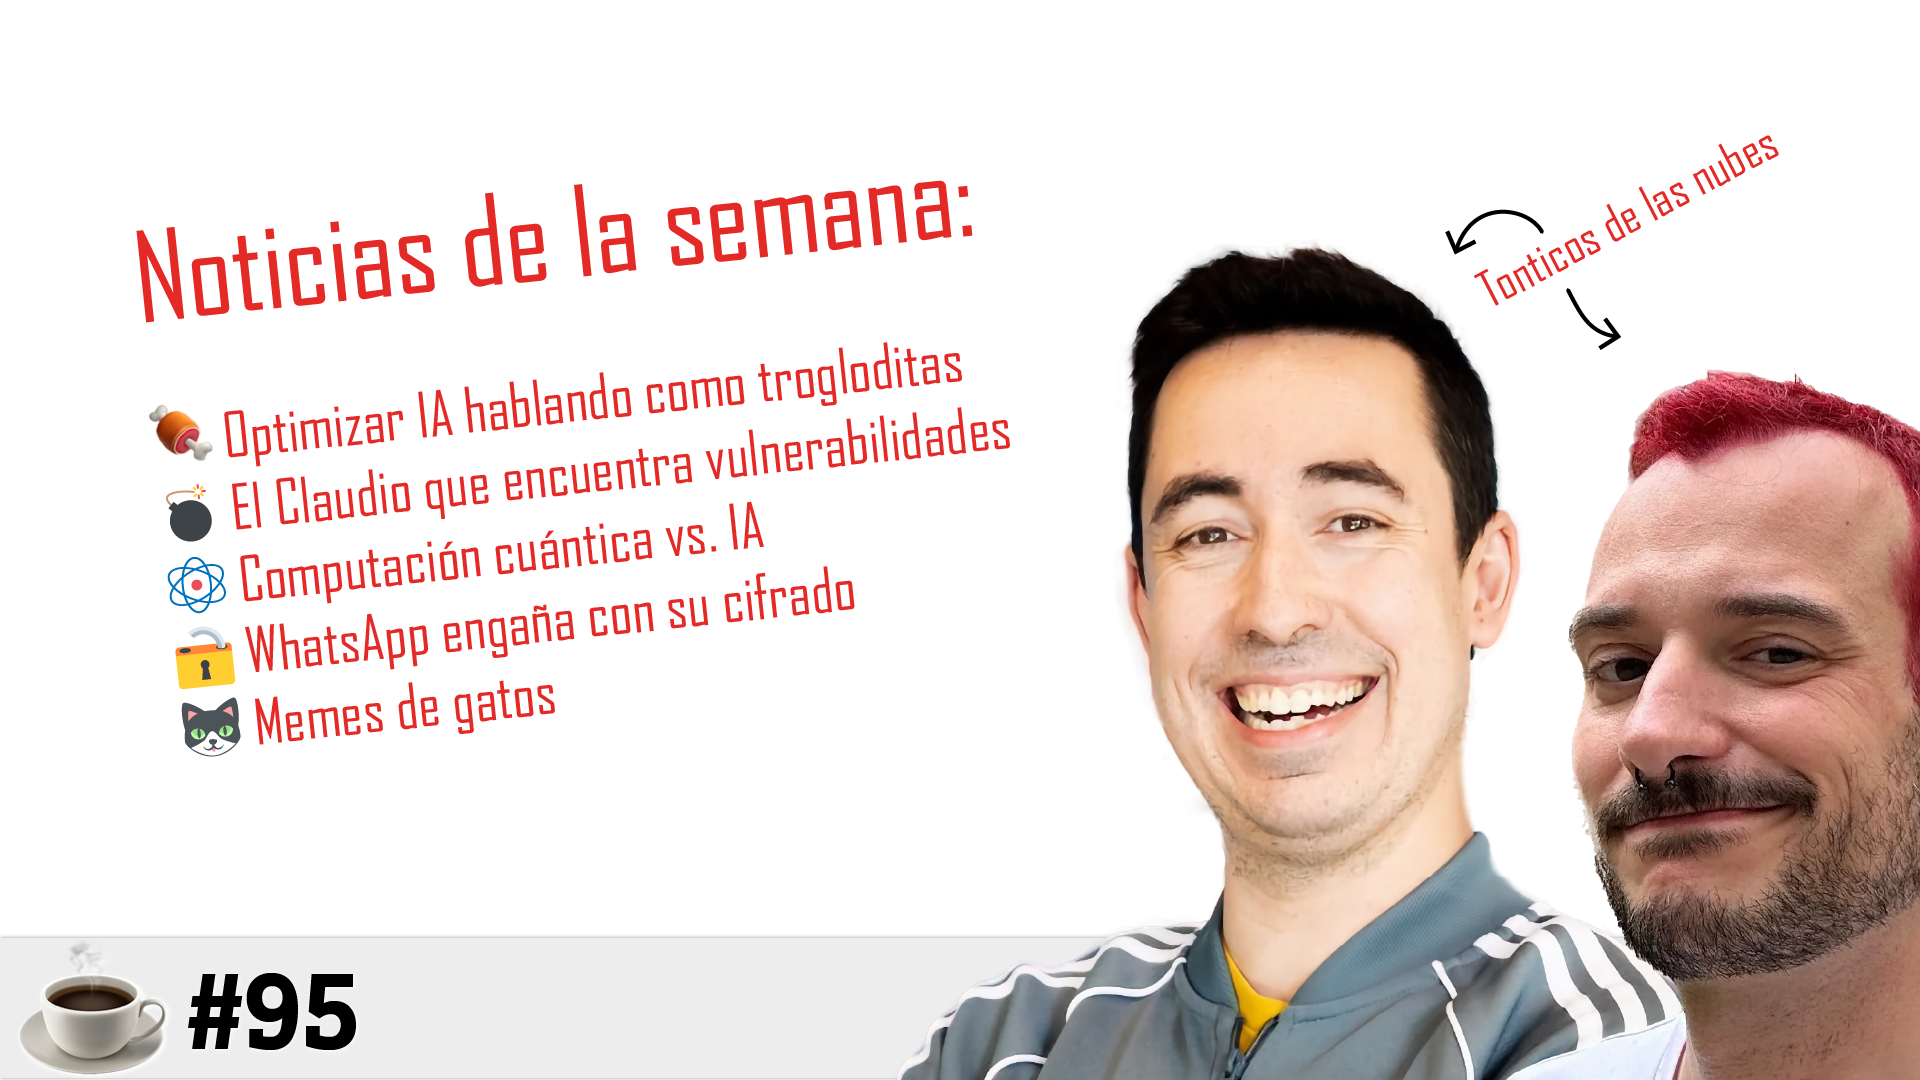
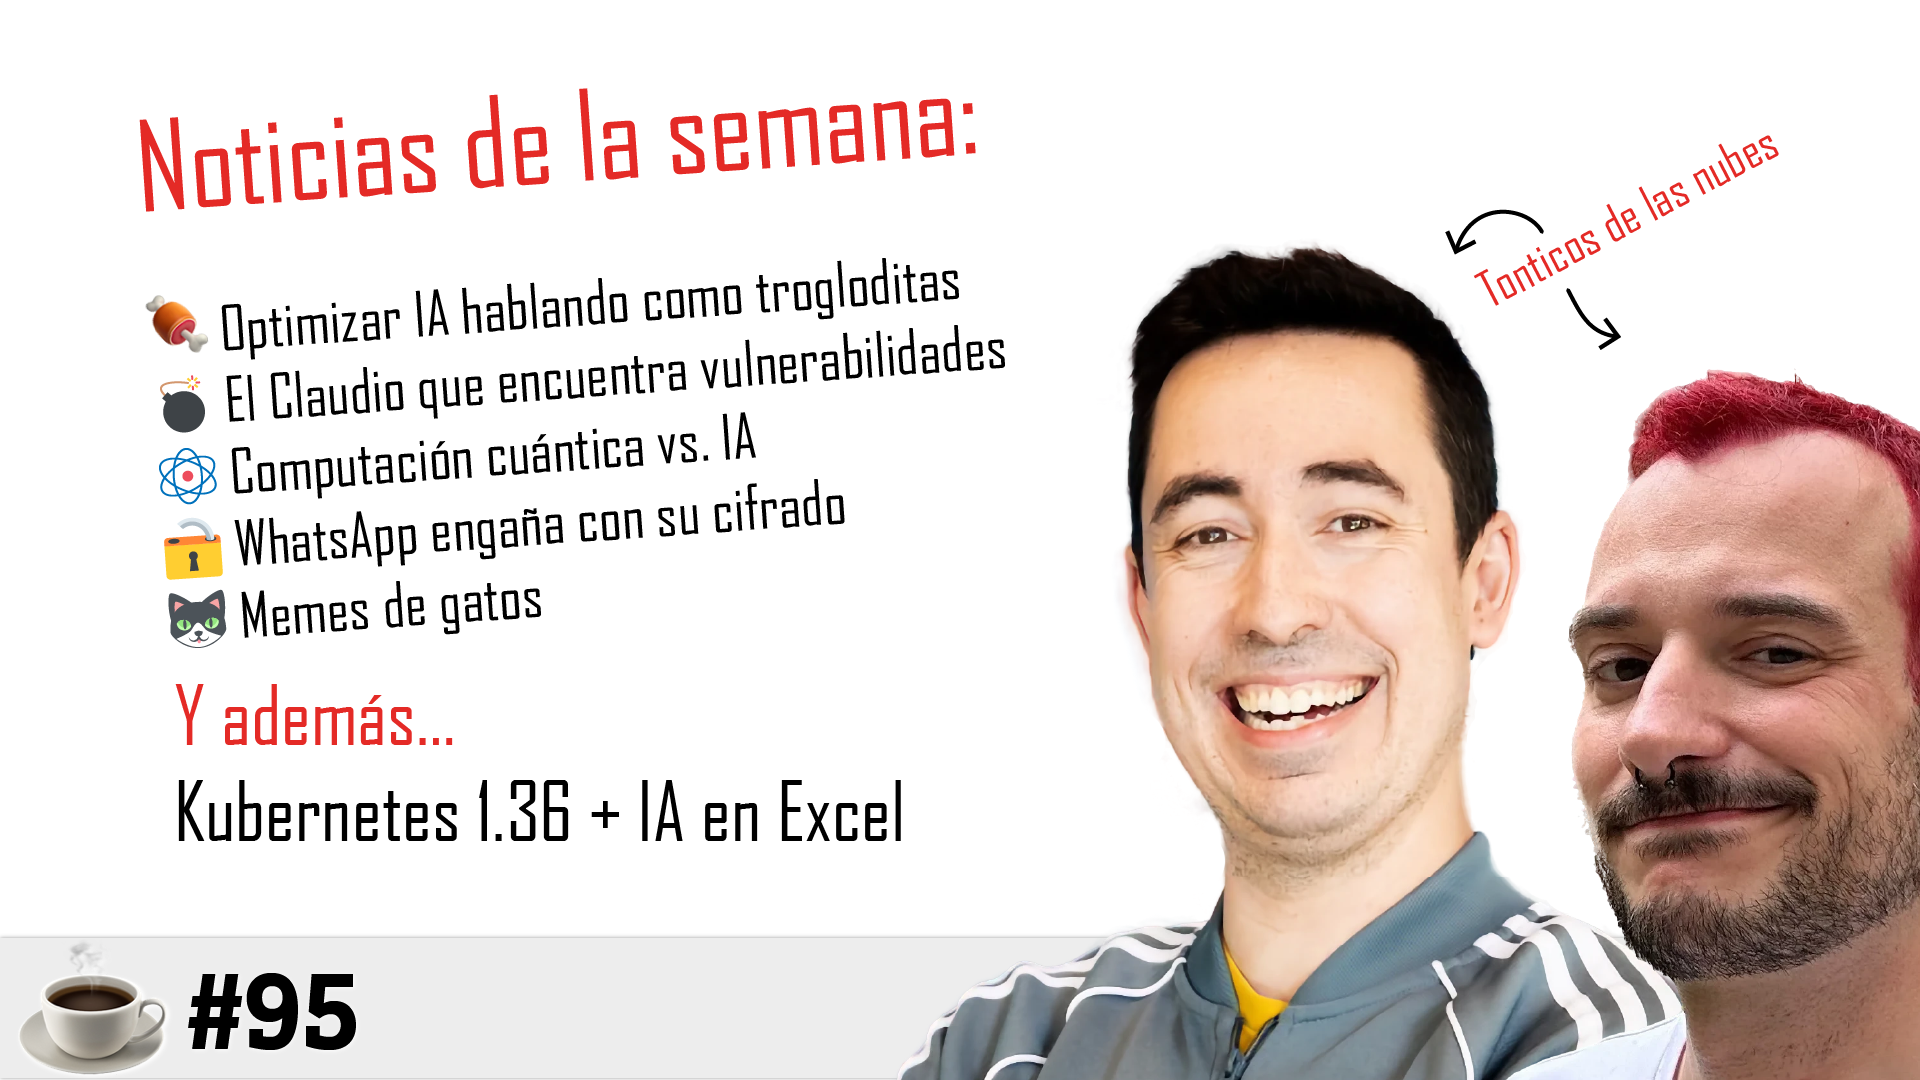
chore(blog): Updates on cafe 95

Changed region(s): [[0.0625, 0.0917, 0.5312, 0.7028], [0.0938, 0.7028, 0.4688, 0.7944]]

diff --git a/content/blog/cafe-095 - la-ia-troglodita/index.md b/content/blog/cafe-095 - la-ia-troglodita/index.md
@@ -1,7 +1,7 @@
 ---
 title: '☕ #95 La IA troglodita'
 slug: cafe-95-la-ia-troglodita
-date: '2026-04-16T16:00:00+00:00'
+date: '2026-04-16T15:00:00+00:00'
 
 programas: 'Café OnTheNubs'
 etiquetas:
